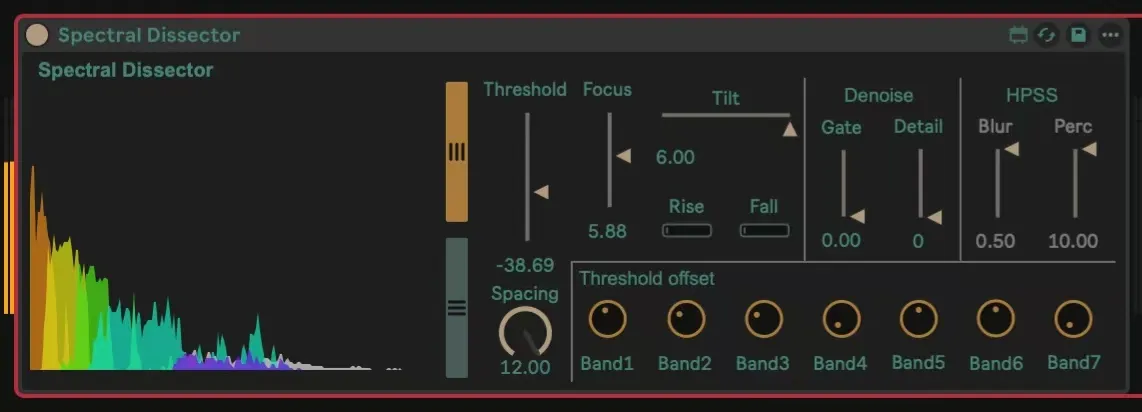
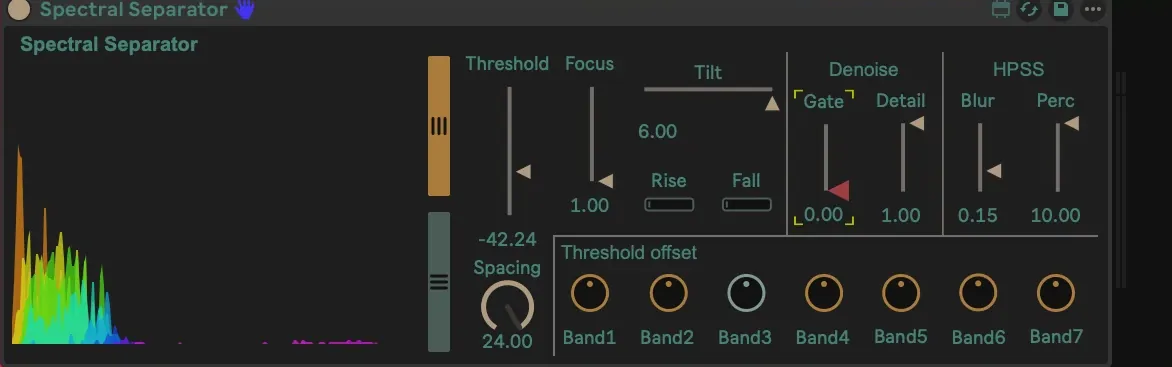
SPECTRAL DISSECTOR 补路由菜单截图；两套界面图按同一标准裁切
「当前版界面截图（待补）」是旧话——页首那张 img/spectral-dissector-2.webp 就是当前版
界面（Threshold／Focus／Tilt／Rise／Fall／Denoise／HPSS／Threshold offset Band1–7），
由 project-data.js 的 media.src 渲染。资料行改成「初版界面截图（正文）；当前版界面
截图（页首）；路由菜单截图（正文）」。

真正缺的是路由菜单：正文讲了「每个频带、Perc Band 与 Dry 干路各自独立输出」，却没图。
作者给了两套截图，定稿的这一套按同一把尺子处理：去掉顶部 Live 工具条 → 裁到设备红色
选中框以内（ui 左 14／底 367，routing 左 18／底 365，逐张实测）→ 两图统一到同一画布
1172×367（不足处用设备底色补）→ WebP q80。主界面那张替换页首（原先是红底版本），
路由那张 img/spectral-dissector-3.webp 插在「技术介绍」里那句话之后，图下 .work-note 说明。

顺带核实：路由图摊开了设备真实的输出列表——Band 1–8、Perc Band、Residual、Dry。
界面标 Residual，信息栏写「Cepstrum 带（Band 9）」，是同一路，图注点明免得读者对不上；
截图里下拉全是 No Output（未指定输出的状态），图注照实说，不假装已经路由好。

实测：两图同为 1172×367，16.8 KB 与 19.1 KB；中英两页各渲染出路由图与图注；
verify 834 项全过；coverage 零缺字。changelog.js v34→35。

Changed region(s): [[0.0, 0.0, 1.0, 1.0]]

diff --git a/works/spectral-dissector/zh/index.html b/works/spectral-dissector/zh/index.html
@@ -92,7 +92,7 @@ document.addEventListener('focusin',function(e){var t=e.target;if(t&&t.id==='lan
 <span class="work-meta-k">公开记录</span><span class="work-meta-v">本站可下载（当前版）；暂无外部使用记录</span>
 <span class="work-meta-k">许可</span><span class="work-meta-v">保留所有权利。个人与商业作品可免费使用，可自用修改；禁止再分发、转售。详见包内 LICENSE.txt</span>
 <span class="work-meta-k">状态</span><span class="work-meta-v">持续开发</span>
-<span class="work-meta-k">资料</span><span class="work-meta-v">初版界面截图（正文）；当前版界面截图（页首）；路由菜单截图（待补）；使用教程视频（YouTube，制作中）</span>
+<span class="work-meta-k">资料</span><span class="work-meta-v">初版界面截图（正文）；当前版界面截图（页首）；路由菜单截图（正文）；使用教程视频（YouTube，制作中）</span>
 </span>
 
 <a class="tt-download" href="data/spectral-dissector/Spectral%20Dissector.zip" download>↓ 下载 Spectral Dissector</a>
@@ -159,6 +159,10 @@ Ircam iana~ &amp; ASAP
 <br><br>
 
 它的用法很简单：把一路声音送进去，每个频带、Perc Band 与 Dry 干路各自独立输出，你可以把它们送去不同的效果链，再混回来。
+
+<img src="img/spectral-dissector-3.webp" alt="Spectral Separator 的路由菜单：Band 1-8、Perc Band、Residual 与 Dry 各自一路输出" loading="lazy" decoding="async" style="display:block;width:100%;margin:16px 0 6px">
+
+<span class="work-note">路由菜单：Band 1–8、Perc Band、Residual 与 Dry 各自选一路输出。这张截图里还没指定输出，所以每一行都显示 No Output；界面上的 Residual 就是信息栏里那条 Cepstrum 带（Band 9）。</span>
 
 <br><br>
 

diff --git a/data/spectral-dissector/zh.html b/data/spectral-dissector/zh.html
@@ -6,7 +6,7 @@
 <span class="work-meta-k">公开记录</span><span class="work-meta-v">本站可下载（当前版）；暂无外部使用记录</span>
 <span class="work-meta-k">许可</span><span class="work-meta-v">保留所有权利。个人与商业作品可免费使用，可自用修改；禁止再分发、转售。详见包内 LICENSE.txt</span>
 <span class="work-meta-k">状态</span><span class="work-meta-v">持续开发</span>
-<span class="work-meta-k">资料</span><span class="work-meta-v">初版界面截图（正文）；当前版界面截图（页首）；路由菜单截图（待补）；使用教程视频（YouTube，制作中）</span>
+<span class="work-meta-k">资料</span><span class="work-meta-v">初版界面截图（正文）；当前版界面截图（页首）；路由菜单截图（正文）；使用教程视频（YouTube，制作中）</span>
 </span>
 
 <a class="tt-download" href="data/spectral-dissector/Spectral%20Dissector.zip" download>↓ 下载 Spectral Dissector</a>
@@ -73,6 +73,10 @@ Ircam iana~ &amp; ASAP
 <br><br>
 
 它的用法很简单：把一路声音送进去，每个频带、Perc Band 与 Dry 干路各自独立输出，你可以把它们送去不同的效果链，再混回来。
+
+<img src="img/spectral-dissector-3.webp" alt="Spectral Separator 的路由菜单：Band 1-8、Perc Band、Residual 与 Dry 各自一路输出" loading="lazy" decoding="async" style="display:block;width:100%;margin:16px 0 6px">
+
+<span class="work-note">路由菜单：Band 1–8、Perc Band、Residual 与 Dry 各自选一路输出。这张截图里还没指定输出，所以每一行都显示 No Output；界面上的 Residual 就是信息栏里那条 Cepstrum 带（Band 9）。</span>
 
 <br><br>
 

diff --git a/js/changelog.js b/js/changelog.js
@@ -17,6 +17,18 @@ if (typeof App.injectCanonical === 'function' && typeof App.pageHref === 'functi
     {
       date: '2026-10-09',
       title: {
+        zh: 'SPECTRAL DISSECTOR 补上路由菜单截图；「当前版界面截图（待补）」那句改准',
+        en: 'SPECTRAL DISSECTOR gains its routing-menu screenshot, and a stale "to come" is corrected'
+      },
+      brief: {
+        zh: '路由菜单截图进「技术介绍」；两套截图按同一把尺子裁（1172×367）；「待补」那句改准',
+        en: 'The routing menu joins the how-it-works section, both shots cropped to one standard, and a stale “to come” corrected.'
+      },
+      media: ''
+    },
+    {
+      date: '2026-10-09',
+      title: {
         zh: 'The JustType Study 内页顶部图改用首页卡片那套裁切',
         en: 'The JustType Study page adopts the homepage card crop for its top image'
       },

diff --git a/changelog.html b/changelog.html
@@ -39,7 +39,7 @@
 <script defer src="js/nav.js?v=6"></script>
 <script defer src="js/prefetch.js"></script>
 <!-- page data + logic -->
-<script defer src="js/changelog.js?v=34"></script>
+<script defer src="js/changelog.js?v=35"></script>
 </head>
 <body>
 

diff --git a/changelog/index.html b/changelog/index.html
@@ -54,7 +54,7 @@
 <script defer src="js/nav.js?v=6"></script>
 <script defer src="js/prefetch.js"></script>
 <!-- page data + logic -->
-<script defer src="js/changelog.js?v=34"></script>
+<script defer src="js/changelog.js?v=35"></script>
 </head>
 <body>
 

diff --git a/changelog/zh/index.html b/changelog/zh/index.html
@@ -54,7 +54,7 @@
 <script defer src="js/nav.js?v=6"></script>
 <script defer src="js/prefetch.js"></script>
 <!-- page data + logic -->
-<script defer src="js/changelog.js?v=34"></script>
+<script defer src="js/changelog.js?v=35"></script>
 </head>
 <body>
 
